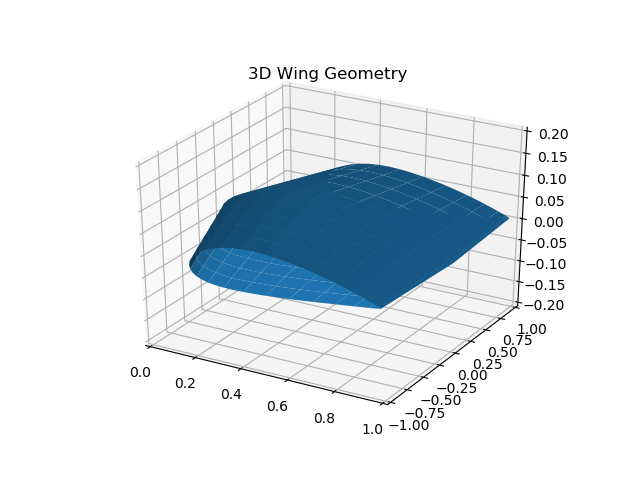
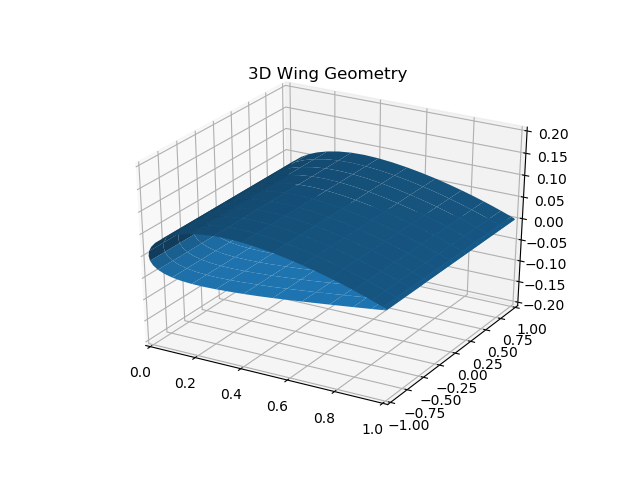
Check Unit Vector

diff --git a/Main_Program.py b/Main_Program.py
@@ -21,8 +21,8 @@ Na = 51     # Number of Airfoil Points (Odd) (1==Na)
 
 # Wing Parameter
 b = 2.0         # Wing Span
-Lambda = 0.8    # Taper Ratio
-theta = 10.0    # Sweep Angle in Degree
+Lambda = 1.0    # Taper Ratio
+theta = 0.0    # Sweep Angle in Degree
 cr = 1.0        # Chord Root
 Np = 11         # Number of Airfoil Section (Odd)
 
@@ -36,3 +36,4 @@ xa,ya = Airfoil_Generator.NACA4Digit(Na,m,p,t)              # Output : Airfoil C
 xw,yw,zw = Wing_Generator.Geo_Wing(xa,ya,Np,b,cr,ct,theta)  # Output : Wing Coordinate (x,y,z)
 x1,x2,x3,x4,y1,y2,y3,y4,S,n,X,Y,Z = Wing_Generator.Panel_Wing(Na,Np,xw,yw,zw) 
 
+plt.show()

diff --git a/Wing_Generator.py b/Wing_Generator.py
@@ -159,10 +159,12 @@ def Panel_Wing(Na,Np,x,y,z):
             d3[i][j] = math.sqrt((x4[i][j]-x3[i][j])**2+(y4[i][j]-y3[i][j])**2)
             d4[i][j] = math.sqrt((x1[i][j]-x4[i][j])**2+(y1[i][j]-y4[i][j])**2)
 
-    # # Plot (Check Normal Vector)
+    # Plot (Check Vector)
     # fig = plt.figure(2)
     # ax = fig.gca(projection='3d')
     # ax.quiver(cx, cy, cz, nx, ny, nz, length=0.05, normalize=True)
+    # ax.quiver(cx, cy, cz, ux, uy, uz, length=0.05, normalize=True)
+    # ax.quiver(cx, cy, cz, ox, oy, oz, length=0.05, normalize=True)
     # plt.show()
     
     # Resize Panel Parameter
